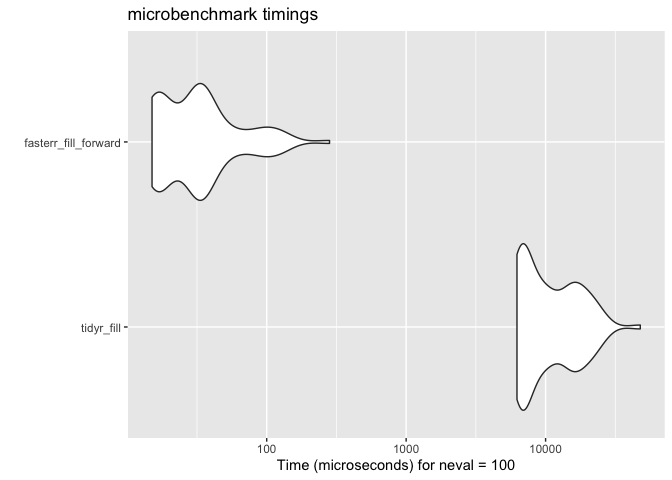
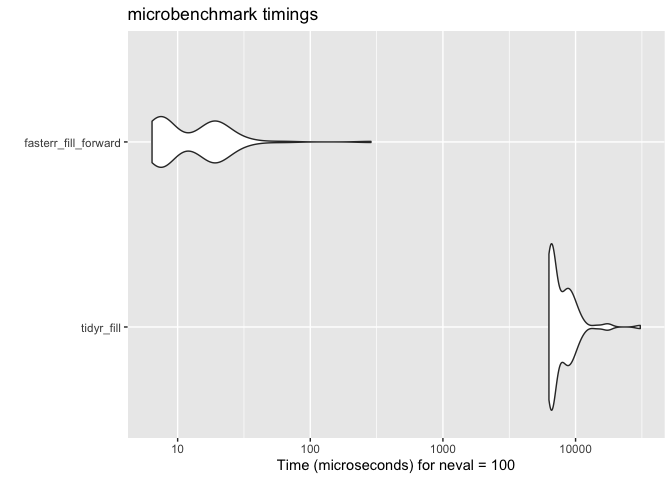
Updated README.Rmd.

diff --git a/README.md b/README.md
@@ -65,14 +65,14 @@ step <- 2
     
 full_seq_results <- microbenchmark::microbenchmark(
     tidyr_full_seq = tidyr::full_seq(seq, step),
-    fasterr_full_seq = full_seq(seq, step),
+    fasterr_full_seq = fasterr:::full_seq(seq, step),
     times = 100
   )
 
 summary(full_seq_results)
-#>               expr    min      lq       mean  median      uq        max neval
-#> 1   tidyr_full_seq 32.696 35.4750 4907.47355 39.4355 66.0900 484477.553   100
-#> 2 fasterr_full_seq  2.918  5.1495   10.03492  6.3360 11.1135     77.856   100
+#>               expr    min      lq       mean median      uq        max neval
+#> 1   tidyr_full_seq 30.865 31.8840 4926.25004 32.713 33.2025 489230.075   100
+#> 2 fasterr_full_seq  2.353  2.6675    8.97584  3.746  4.0060    543.471   100
 ggplot2::autoplot(full_seq_results)
 ```
 
@@ -83,17 +83,17 @@ ggplot2::autoplot(full_seq_results)
 ``` r
 fill_results <- microbenchmark::microbenchmark(
     tidyr_fill = tidyr::fill(airquality, "Ozone", "Solar.R"),
-    fasterr_fill_forward = fill_forward(airquality,c("Ozone", "Solar.R")),
+    fasterr_fill_forward = fasterr:::fill_forward(airquality,c("Ozone", "Solar.R")),
     times = 100
   )
 
 summary(fill_results)
-#>                   expr      min        lq        mean    median       uq
-#> 1           tidyr_fill 6235.070 6710.0680 11914.66448 9649.3180 15646.20
-#> 2 fasterr_fill_forward   15.056   16.7985    41.03662   32.7845    39.42
+#>                   expr      min       lq       mean    median       uq
+#> 1           tidyr_fill 6299.547 6521.974 8119.05797 6904.6345 8829.179
+#> 2 fasterr_fill_forward    6.412    7.654   17.22815   13.2055   19.206
 #>         max neval
-#> 1 47763.527   100
-#> 2   282.237   100
+#> 1 30753.347   100
+#> 2   286.735   100
 ggplot2::autoplot(fill_results)
 ```
 
@@ -110,8 +110,8 @@ omit_na_results <- microbenchmark::microbenchmark(
 
 summary(omit_na_results)
 #>              expr     min       lq     mean   median       uq     max neval
-#> 1   stats_na.omit 137.026 149.7575 153.9529 152.6165 155.3315 237.377   100
-#> 2 fasterr_omit_na 105.054 112.2325 117.7229 115.3685 119.8260 204.473   100
+#> 1   stats_na.omit 134.890 147.8000 153.2393 150.7025 153.9625 220.966   100
+#> 2 fasterr_omit_na  86.229  94.8345 100.9101  97.6380 100.5295 254.960   100
 ggplot2::autoplot(omit_na_results)
 ```
 
